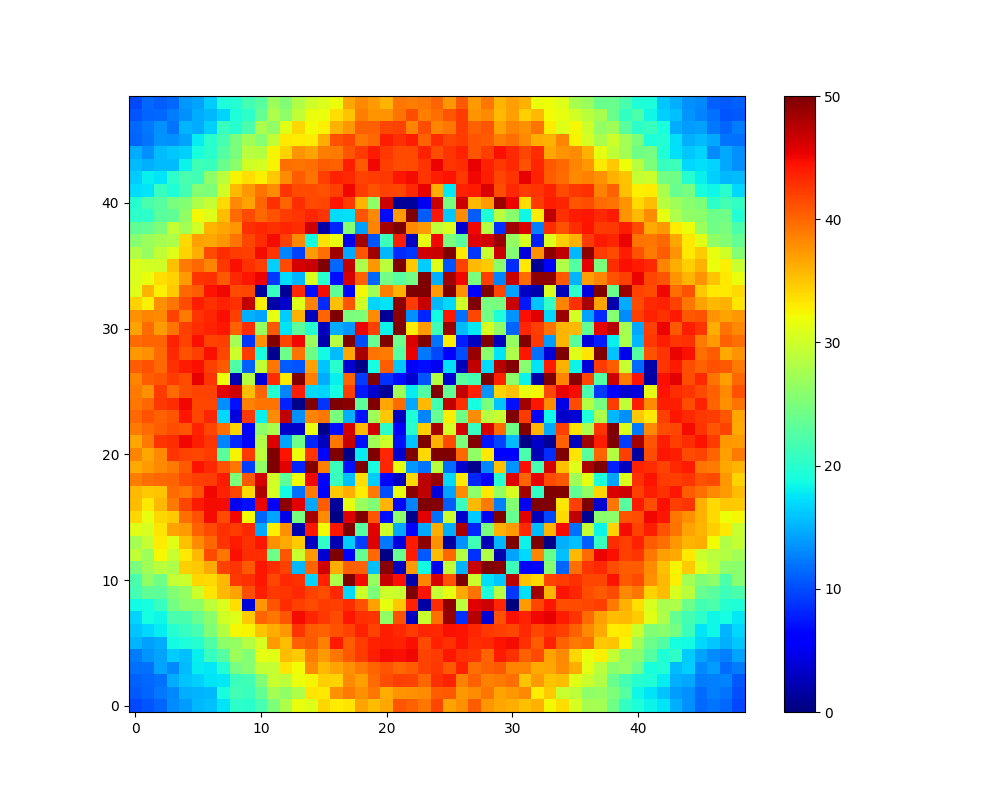
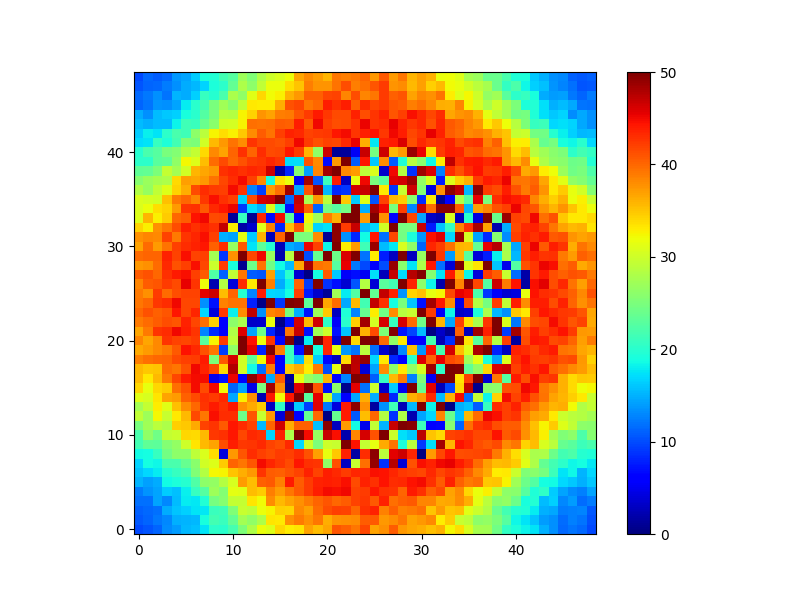
800x600 figure
Former-commit-id: e224a77c7f1b601c2a30ed460fdf5fa3669ce6c2

diff --git a/examples/Array_of_oscillating_cells/ex3case1_plot.py b/examples/Array_of_oscillating_cells/ex3case1_plot.py
@@ -6,8 +6,8 @@ import numpy as np
 data = np.genfromtxt(fname="ex3case1_data.tsv", delimiter="\t", skip_header=21, usecols=range(1,2402)).reshape((49,49))
 
 # figure dimensions
-png_width = 1000
-png_height = 800
+png_width = 800
+png_height = 600
 png_dpi = 100
 
 # plot the data
